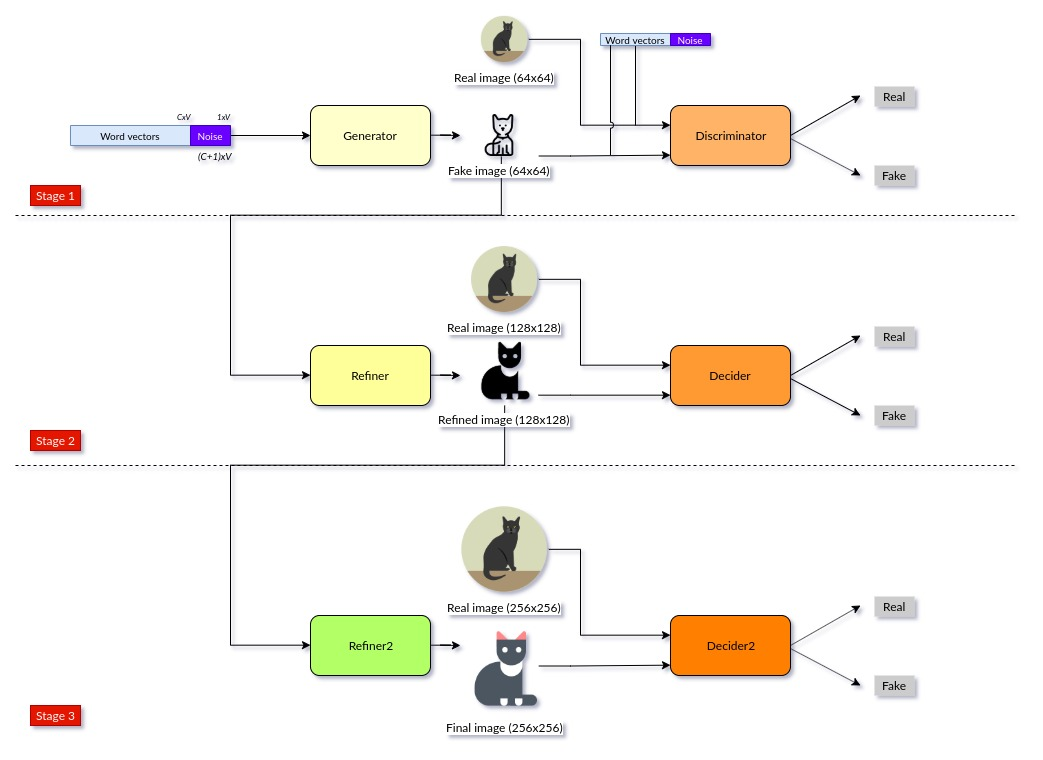
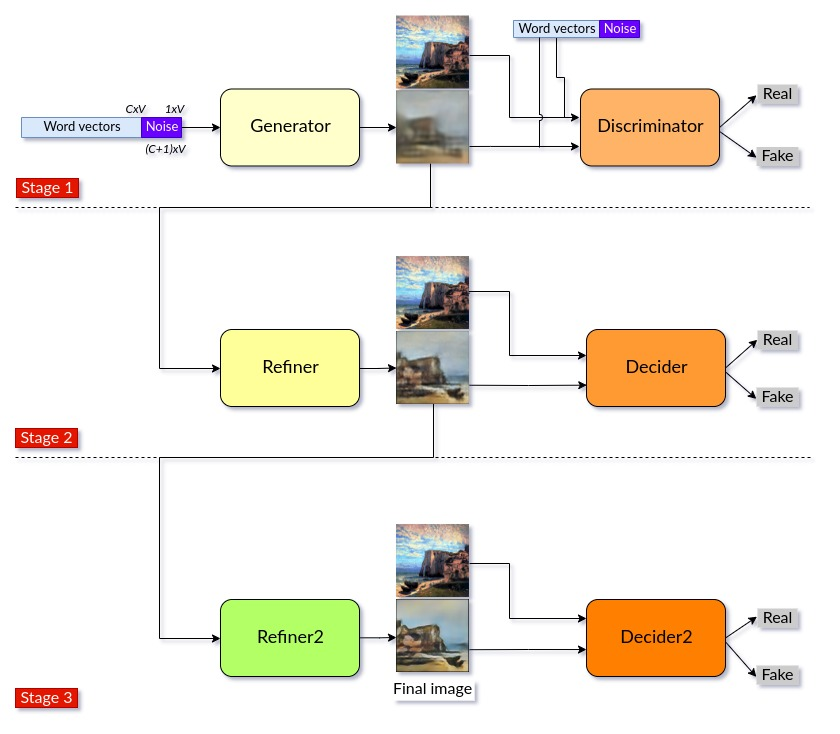
Update README images and assets

diff --git a/README.md b/README.md
@@ -1,16 +1,12 @@
-# text2painting (*Project is still under development*)
+# text2painting
 
-## Convert words into artistic painting
+## Convert keywords into painting
 
 ![definition](./assets/simple_task_definition.jpg "definition")
 
-Current results (input words - stage1 output - stage2 output - stage3 output - ground truth)
+Sample results (input words - stage1 output - stage2 output - stage3 output - ground truth)
 
-![strong_man](./assets/strong_man.jpg "strong_man")
-![horse](./assets/horse.jpg "horse")
-![horses_riders](./assets/horses_riders.jpg "horses_riders")
-![swap](./assets/swap.jpg "swap")
-![scenery](./assets/scenery.jpg "scenery")
+![results](./assets/results.jpg "results")
 
 ## Model
 
@@ -25,6 +21,10 @@ Model is built as sequential GANs with three stages
 ## Stage-2 structure
 
 ![stage2](./assets/gan2.jpg "stage2")
+
+## Stage-3 structure
+
+![stage2](./assets/gan3.jpg "stage2")
 
 ## Installation
 
